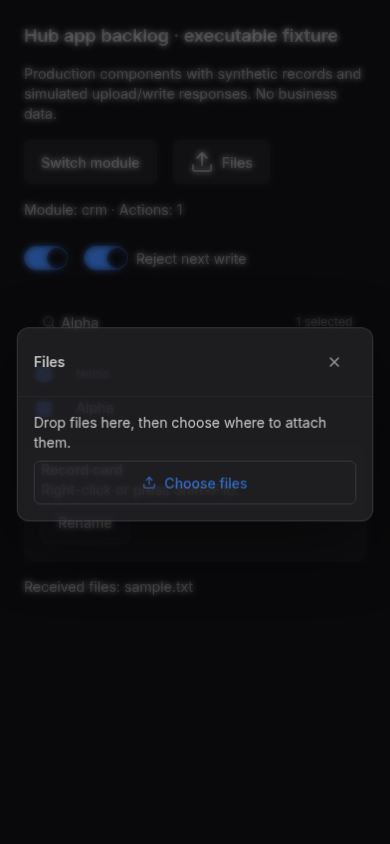
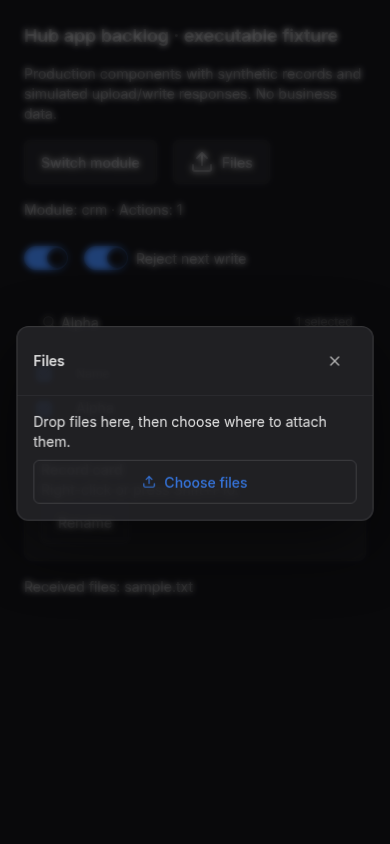
fix(shell): keep the module view when a remembered record is unavailable

diff --git a/src/lib/records/peek-restoration.test.ts b/src/lib/records/peek-restoration.test.ts
@@ -1,0 +1,47 @@
+import { beforeEach, expect, it, vi } from 'vitest';
+import { page } from '$app/state';
+import { goto, preloadData, pushState } from '$app/navigation';
+import { openRecord } from './peek.svelte';
+vi.mock('$lib/records/peek-registry', () => ({ resolvePeekPage: () => ({}) }));
+vi.mock('$app/navigation', () => ({ goto: vi.fn(), preloadData: vi.fn(), pushState: vi.fn() }));
+beforeEach(() => {
+  vi.clearAllMocks();
+  page.data = { user: { id: 'actor' }, activeOrgId: 'org' };
+  page.url.href = 'https://hub.test/es/crm';
+  vi.mocked(preloadData).mockResolvedValue({ type: 'loaded', status: 200, data: {} });
+});
+it.each([403, 404])('keeps the module view when a remembered panel returns %s', async (status) => {
+  vi.mocked(preloadData).mockResolvedValue({ type: 'loaded', status, data: {} });
+  await openRecord('/crm/retired', 'tray', { fallbackToPage: false });
+  expect(goto).not.toHaveBeenCalled();
+  expect(pushState).not.toHaveBeenCalled();
+});
+it('keeps the module view when remembered-panel preload is offline', async () => {
+  vi.mocked(preloadData).mockRejectedValue(new Error('offline'));
+  await expect(openRecord('/crm/one', 'modal', { fallbackToPage: false })).resolves.toBeUndefined();
+  expect(goto).not.toHaveBeenCalled();
+});
+it('preserves the ordinary record-link fallback', async () => {
+  vi.mocked(preloadData).mockResolvedValue({ type: 'loaded', status: 404, data: {} });
+  await openRecord('/crm/missing', 'tray');
+  expect(goto).toHaveBeenCalledOnce();
+});
+it('does not reopen a remembered record after its owner retires', async () => {
+  let complete!: (value: { type: 'loaded'; status: number; data: Record<string, unknown> }) => void;
+  vi.mocked(preloadData).mockReturnValueOnce(new Promise((resolve) => (complete = resolve)));
+  const opening = openRecord('/crm/one', 'tray', { fallbackToPage: false });
+  page.data = { user: { id: 'other' }, activeOrgId: 'org' };
+  complete({ type: 'loaded', status: 200, data: {} });
+  await opening;
+  expect(pushState).not.toHaveBeenCalled();
+});
+
+it('restores only fresh data returned by the authorized preload', async () => {
+  const fresh = { contact: { id: 'one', displayName: 'Fresh' } };
+  vi.mocked(preloadData).mockResolvedValue({ type: 'loaded', status: 200, data: fresh });
+  await openRecord('/crm/one', 'tray', { fallbackToPage: false });
+  expect(goto).not.toHaveBeenCalled();
+  expect(pushState).toHaveBeenCalledWith('', {
+    peek: { href: '/crm/one', mode: 'tray', data: fresh },
+  });
+});

diff --git a/src/lib/records/peek.svelte.ts b/src/lib/records/peek.svelte.ts
@@ -76,21 +76,32 @@ export function openModeFor(tableId?: string | null, explicit?: OpenMode | null)
 /**
  * Open `href` in `mode`. Falls back to a full navigation when the route has no
  * peek-able page registered or its load fails (404/redirect/error) — the user
- * always ends up on the record, never on a blank panel.
+ * always ends up on the record, never on a blank panel. Session restoration
+ * disables that fallback so a retired/unavailable panel cannot redirect a view.
  */
 let openRequest = 0;
-export async function openRecord(href: string, mode: OpenMode = 'page'): Promise<void> {
+export async function openRecord(
+  href: string,
+  mode: OpenMode = 'page',
+  options: { fallbackToPage?: boolean } = {},
+): Promise<void> {
   const request = ++openRequest;
   const owner = preferenceOwner();
   const source = page.url.href;
   if (mode === 'page' || !resolvePeekPage(href)) {
-    await goto(href);
+    if (options.fallbackToPage !== false) await goto(href);
     return;
   }
-  const result = await preloadData(localizePath(href));
+  let result: Awaited<ReturnType<typeof preloadData>>;
+  try {
+    result = await preloadData(localizePath(href));
+  } catch (error) {
+    if (options.fallbackToPage !== false) throw error;
+    return;
+  }
   if (request !== openRequest || preferenceOwner() !== owner || page.url.href !== source) return;
   if (result.type !== 'loaded' || result.status !== 200) {
-    await goto(href);
+    if (options.fallbackToPage !== false) await goto(href);
     return;
   }
   pushState('', { peek: { href, mode, data: result.data as Record<string, unknown> } });

diff --git a/tests/fixtures/app-backlog/main.ts b/tests/fixtures/app-backlog/main.ts
@@ -2,12 +2,15 @@ import { mount } from 'svelte';
 import { page } from '$app/state';
 import '../../../src/app.css';
 import Fixture from './Fixture.svelte';
-Object.assign(page, { data: { user:{id:'actor'},activeOrgId:'org' }, url:new URL('http://127.0.0.1:5281/crm') });
+Object.assign(page, {
+  data: { user: { id: 'actor' }, activeOrgId: 'org' },
+  url: new URL('http://127.0.0.1:5281/crm'),
+});
 const realFetch = window.fetch.bind(window);
 window.fetch = async (input, init) => {
   const url = String(input);
-  if (url.startsWith('/api/files?')) return Response.json({files:[]});
-  if (url.startsWith('/api/')) return Response.json({ok:true});
+  if (url.startsWith('/api/files?')) return Response.json({ files: [] });
+  if (url.startsWith('/api/')) return Response.json({ ok: true });
   return realFetch(input, init);
 };
 mount(Fixture, { target: document.getElementById('app')! });

diff --git a/src/routes/(app)/crm/customers/+page.svelte b/src/routes/(app)/crm/customers/+page.svelte
@@ -812,14 +812,18 @@
     }
   }
 
-  rememberView('crm', () => ({ tagId, reservedFilter, awaitingFilter, scoreMin, scoreMax, tempFilter }), (saved) => {
-    tagId = saved.tagId;
-    reservedFilter = saved.reservedFilter;
-    awaitingFilter = saved.awaitingFilter;
-    scoreMin = saved.scoreMin;
-    scoreMax = saved.scoreMax;
-    tempFilter = saved.tempFilter;
-  });
+  rememberView(
+    'crm',
+    () => ({ tagId, reservedFilter, awaitingFilter, scoreMin, scoreMax, tempFilter }),
+    (saved) => {
+      tagId = saved.tagId;
+      reservedFilter = saved.reservedFilter;
+      awaitingFilter = saved.awaitingFilter;
+      scoreMin = saved.scoreMin;
+      scoreMax = saved.scoreMax;
+      tempFilter = saved.tempFilter;
+    },
+  );
 </script>
 
 <svelte:head><title>{m.crm_nav_customers()} — {m.crm_title()}</title></svelte:head>

diff --git a/src/routes/(app)/notifications/+page.svelte b/src/routes/(app)/notifications/+page.svelte
@@ -149,11 +149,15 @@
     }
   }
 
-  rememberView('notifications', () => ({ kindFilter, unreadOnly, showResolved }), (saved) => {
-    kindFilter = saved.kindFilter;
-    unreadOnly = saved.unreadOnly;
-    showResolved = saved.showResolved;
-  });
+  rememberView(
+    'notifications',
+    () => ({ kindFilter, unreadOnly, showResolved }),
+    (saved) => {
+      kindFilter = saved.kindFilter;
+      unreadOnly = saved.unreadOnly;
+      showResolved = saved.showResolved;
+    },
+  );
 </script>
 
 <PageShell archetype="collection" scroll="page" labelledBy="notifications-title">

diff --git a/src/routes/(app)/+layout.svelte b/src/routes/(app)/+layout.svelte
@@ -76,7 +76,8 @@
     await tick();
     if (epoch !== navigationEpoch || preferenceOwner() !== owner || !viewport) return;
     cancelRestore = restoreScroll(viewport, saved.scroll);
-    if (saved.peek && !page.state.peek) void openRecord(saved.peek.href, saved.peek.mode);
+    if (saved.peek && !page.state.peek)
+      void openRecord(saved.peek.href, saved.peek.mode, { fallbackToPage: false });
   });
   onDestroy(() => {
     navigationEpoch += 1;

diff --git a/src/lib/components/config/ToggleSwitch.svelte b/src/lib/components/config/ToggleSwitch.svelte
@@ -26,7 +26,11 @@
   const api = $derived(zagSwitch.connect(service, normalizeProps));
 </script>
 
-<label aria-busy={pending || undefined} {...api.getRootProps()} class="inline-flex items-center cursor-pointer">
+<label
+  aria-busy={pending || undefined}
+  {...api.getRootProps()}
+  class="inline-flex items-center cursor-pointer"
+>
   <input {...api.getHiddenInputProps()} />
   <span
     {...api.getControlProps()}

diff --git a/src/lib/state/agents/agent-skills.svelte.ts b/src/lib/state/agents/agent-skills.svelte.ts
@@ -39,7 +39,9 @@ export async function setAgentSkills(agentId: string, skills: string[] | null): 
     }
   } catch (e) {
     agentSkillsState.error = String(e);
-  } finally { agentSkillsState.saving = false; }
+  } finally {
+    agentSkillsState.saving = false;
+  }
 }
 
 export async function toggleGlobalSkill(skillKey: string, enabled: boolean): Promise<void> {

diff --git a/docs/verification/2026-10-20-app-backlog/README.md b/docs/verification/2026-10-20-app-backlog/README.md
@@ -135,3 +135,12 @@ the current browser fixture; all 215 imported source hashes matched at capture.
 loading page. CI status and final production build receipts are linked from
 [Hub PR #575](https://github.com/NikolasP98/minion_hub/pull/575).
 The proposal/spec companion is [meta PR #850](https://github.com/NikolasP98/minion-meta/pull/850).
+
+The full-suite receipt above precedes the final panel-restoration correction.
+That correction adds six passing cases for rejected/missing/offline panels,
+ordinary-link fallback, owner retirement and fresh authorized data (10 passing
+peek-suite cases including existing mode tests). The combined targeted regression
+run passed 14 tests. Restoration never navigates away from the module on a failed
+preload; normal record links retain their fallback. The browser screenshots and
+215-module provenance were regenerated after this correction and formatting.
+The final CI/build status is recorded on PR #575.
